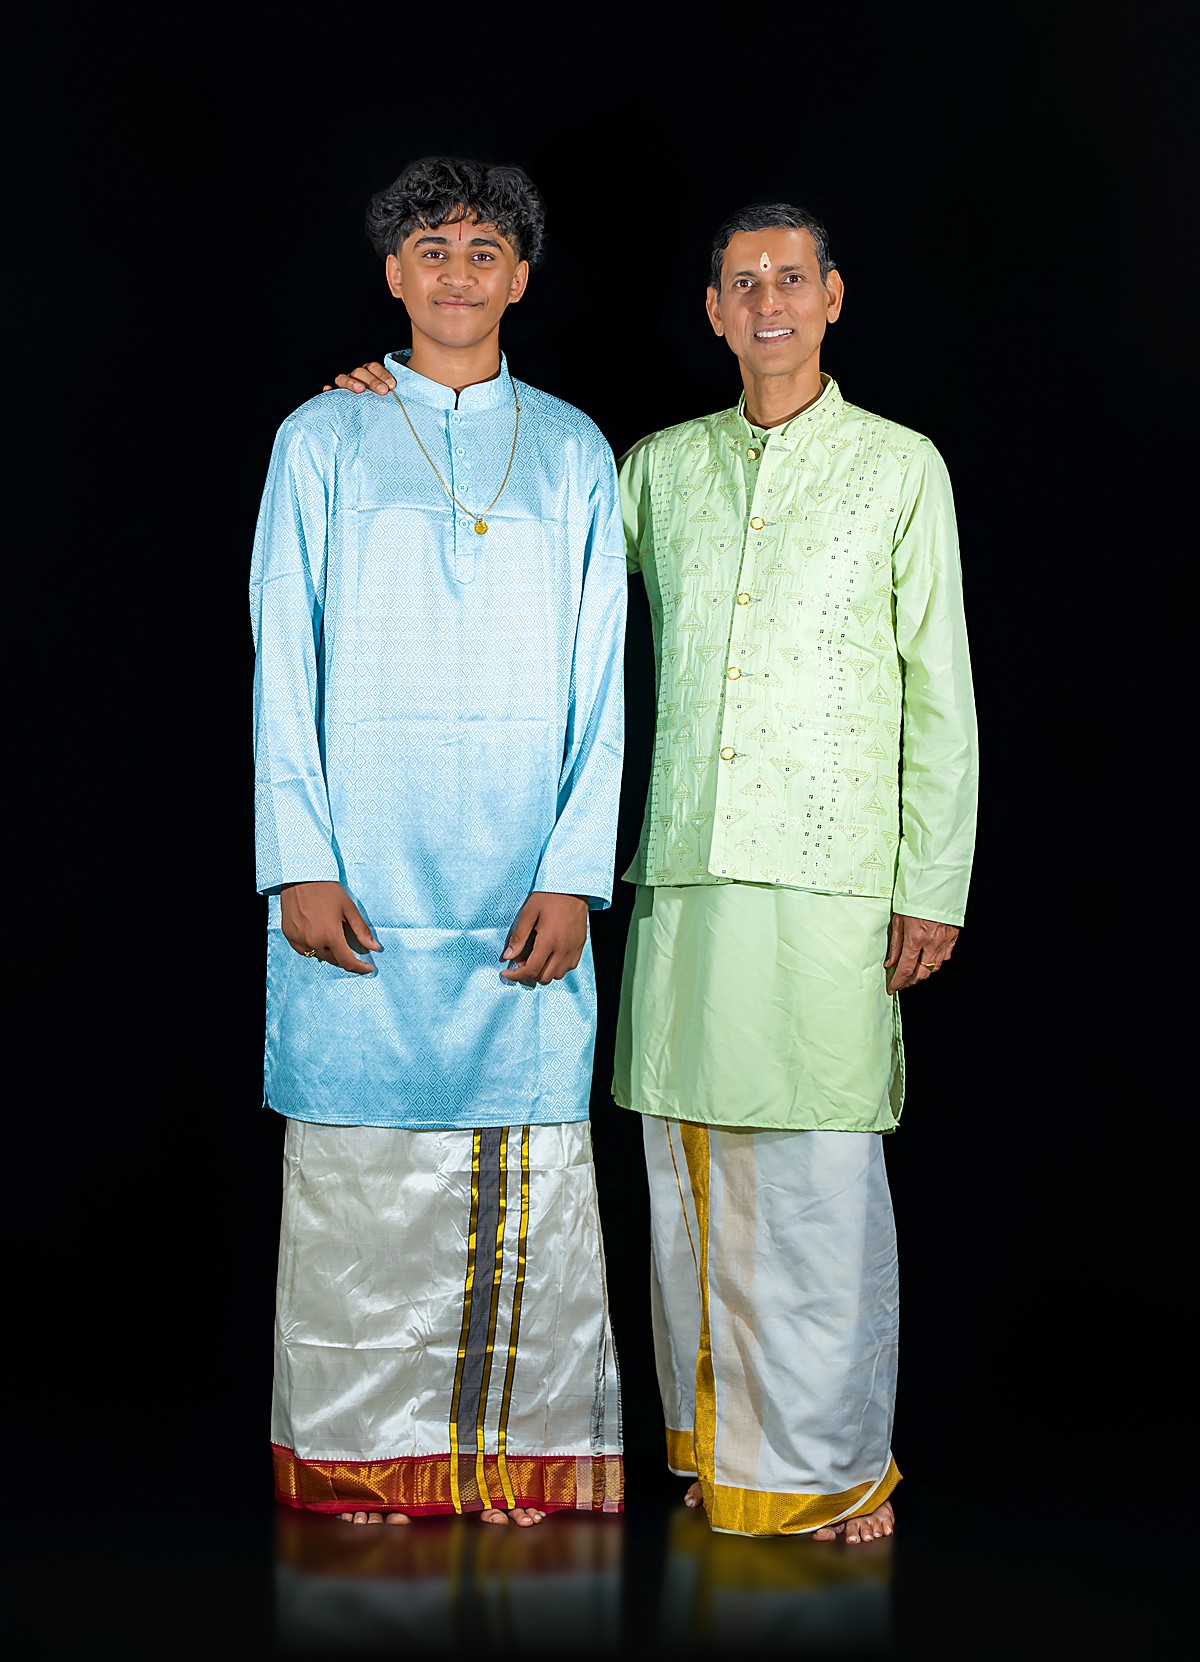
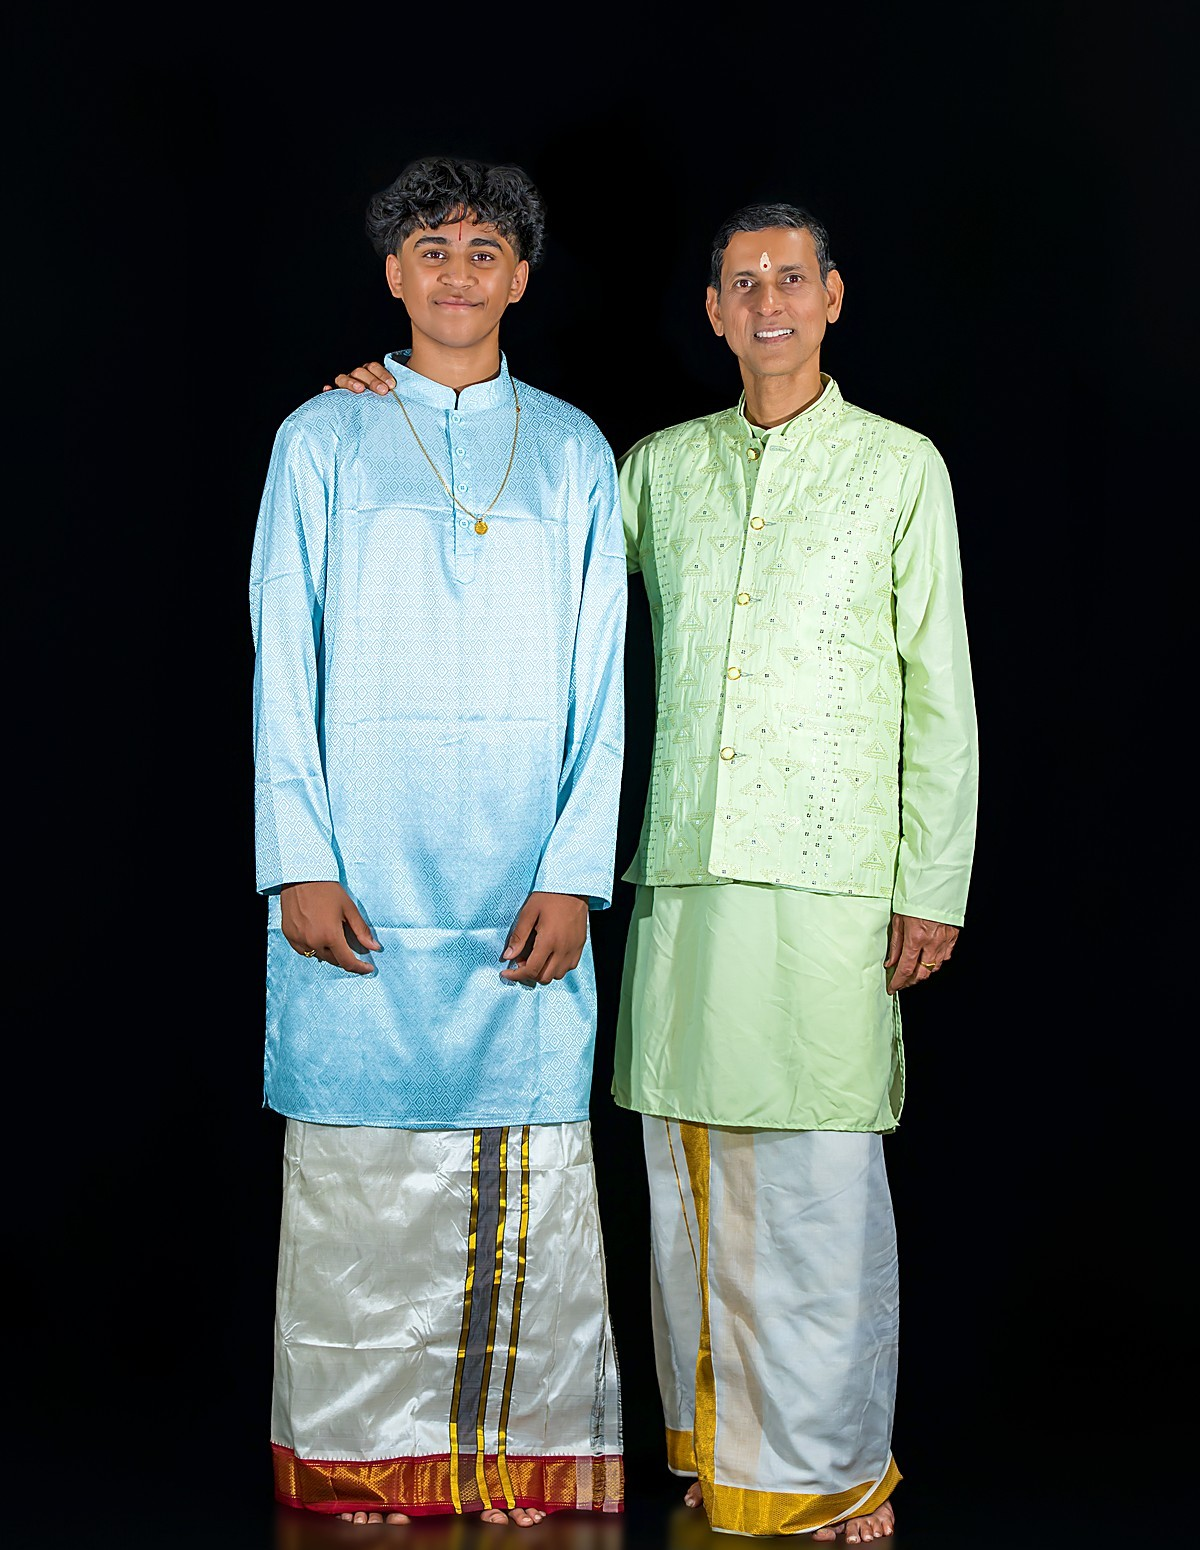
Add Ajay Gopi to Guru page and enlarge hero slide 2 image
- Add Ajay Gopi as Ani's second guru with photo and two-paragraph bio
- Update main guru's name to full honorific, add his stage photo below the existing portrait (cropped bottom)
- Move guru quote block below both guru sections
- Increase hero carousel slide 2 image size on desktop

Changed region(s): [[0.185, 0.0929, 0.8325, 1.0]]

diff --git a/js/content.js b/js/content.js
@@ -180,14 +180,29 @@ const CONTENT = {
   // card. Include the guru's own words about Ani if at all possible.
   // ---------------------------------------------------------------------
   guru: {
-    name: "Gopi Lakshminarayanan",
+    name: "Vidwan Sri Gopi Lakshminarayanan",
     photo: "images/guru-ani-portrait.jpg",
     photoAlt: "Guru Gopi Lakshminarayanan with Ani and a fellow student",
+    photo2: "images/guru.jpg",
+    photo2Alt: "Guru Gopi Lakshminarayanan on stage",
     lineageParagraph: "Sri Gopi Lakshminarayanan is a disciple of the late Sri Kumbakonam Narayanaswamy Iyer and continues his advanced learning with Sri Thanjavur Ramdoss, a disciple of Sri Palghat Mani Iyer. Through this lineage, the guru–shishya tradition carries Carnatic rhythm from one generation to the next through close listening, demonstration, correction, and trust.",
     teachingParagraph: "Gopi leads the Sharadha School of Thala Vadhya in Fremont and has taught young percussionists in the Bay Area for more than a decade. From Ani's earliest playful lessons to his work accompanying singers on stage, he has helped Ani develop discipline, adaptability, and a strong sense of kala pramanam — the steady command of tempo that anchors an ensemble.",
     wordsAboutStudentHeading: "A journey shaped by guidance",
     wordsAboutStudent: "Tonight celebrates not only a performance, but years of patient learning between guru and student. Every phrase Ani plays carries that shared work forward.",
   },
+
+  // Ani's other guru, shown beneath his primary guru on the Guru page.
+  secondaryGurus: [
+    {
+      name: "Ajay Gopi",
+      photo: "images/Ajay.jpg",
+      photoAlt: "Portrait of Ajay Gopi",
+      bioParagraphs: [
+        "Ajay is a disciple of his father, Sri Gopi Lakshminarayanan, and Sri Kallidaikurichi Sivakumar. He frequently accompanies established musicians on the mridangam at renowned venues across the USA and India, and also received foundational training in the kanjira from Sri Papanasam Sethuraman. In addition to his work as an accompanist, Ajay is a passionate Carnatic vocalist and currently trains under the guidance of Sri Kolkata Vijayaraghavan.",
+        "A graduate of UC Berkeley, Ajay is also the founder of Laya of Berkeley and RagaN, organizations dedicated to fostering a deeper appreciation of Carnatic music among diverse audiences. He has been training Aniruth for his mridangam arangetram and is a great pillar of support for him.",
+      ],
+    },
+  ],
 
   // ---------------------------------------------------------------------
   // CHIEF GUEST / GUEST OF HONOR PAGE

diff --git a/css/style.css b/css/style.css
@@ -486,7 +486,7 @@ a:hover { color: var(--kumkum); }
   position: relative;
   display: flex;
   justify-content: center;
-  height: clamp(36rem, 92vw, 44rem);
+  height: clamp(40rem, 92vw, 44rem);
 }
 .hero__slides {
   position: relative;
@@ -539,10 +539,16 @@ a:hover { color: var(--kumkum); }
   aspect-ratio: 1630 / 965;
   margin-top: -1.5rem;
 }
-@media (max-width: 59.99rem) {
-  .hero__slide[data-slide-index="1"] .hero__text-col {
-    margin-bottom: 0.75rem;
-  }
+.hero__slide[data-slide-index="0"] .hero__text-col {
+  margin-bottom: 0.25rem;
+}
+.hero__slide[data-slide-index="1"] .hero__text-col {
+  margin-bottom: 1.25rem;
+}
+.hero__slide[data-slide-index="1"] .hero__portrait {
+  margin-inline: -1.25rem;
+  width: calc(100% + 2.5rem);
+  max-width: calc(100% + 2.5rem);
 }
 .hero__slide[data-slide-index="2"] .hero__portrait {
   aspect-ratio: 1672 / 941;
@@ -630,7 +636,17 @@ a:hover { color: var(--kumkum); }
   .hero__stage { height: 50rem; }
   .hero__portrait { width: min(30vw, 320px); }
   .hero__text-col { max-width: 34rem; margin-bottom: -2.5rem; }
-  .hero__slide[data-slide-index="1"] .hero__portrait { margin-top: -4.5rem; }
+  .hero__slide[data-slide-index="0"] .hero__text-col {
+    margin-bottom: 1rem;
+  }
+  .hero__slide[data-slide-index="1"] .hero__text-col {
+    margin-bottom: 0.5rem;
+  }
+  .hero__slide[data-slide-index="1"] .hero__portrait {
+    margin-inline: 0;
+    margin-top: 0;
+    width: min(44vw, 720px);
+  }
   .event-strip .container { grid-template-columns: repeat(3, 1fr) auto; align-items: center; }
 }
 
@@ -868,6 +884,11 @@ a:hover { color: var(--kumkum); }
   display: grid;
   gap: 2rem;
 }
+.guru-hero__photo-stack {
+  display: grid;
+  gap: 1rem;
+  max-width: 26rem;
+}
 .guru-hero__photo {
   width: 100%;
   height: auto;
@@ -876,6 +897,11 @@ a:hover { color: var(--kumkum); }
   border: 1px solid var(--chalk-dim);
 }
 @media (min-width: 55rem) { .guru-hero { grid-template-columns: 0.8fr 1.2fr; align-items: start; } }
+.guru-hero--secondary {
+  margin-top: 2rem;
+  padding-top: 2rem;
+  border-top: 1px solid var(--chalk-dim);
+}
 .guru-quote {
   background: var(--syahi);
   color: var(--chalk);

diff --git a/js/render.js b/js/render.js
@@ -305,7 +305,10 @@ function renderGuru() {
   const g = CONTENT.guru;
   mount.innerHTML = `
     <div class="guru-hero">
-      <img class="guru-hero__photo" src="${g.photo}" alt="${g.photoAlt}" width="1200" height="1662" loading="lazy">
+      <div class="guru-hero__photo-stack">
+        <img class="guru-hero__photo" src="${g.photo}" alt="${g.photoAlt}" width="1200" height="1550" loading="lazy">
+        ${g.photo2 ? `<img class="guru-hero__photo" src="${g.photo2}" alt="${g.photo2Alt}" width="1600" height="1067" loading="lazy">` : ""}
+      </div>
       <div>
         <h2>${g.name}</h2>
         <h3>Lineage</h3>
@@ -314,6 +317,18 @@ function renderGuru() {
         <p>${g.teachingParagraph}</p>
       </div>
     </div>
+    ${(CONTENT.secondaryGurus || [])
+      .map(
+        (sg) => `
+    <div class="guru-hero guru-hero--secondary">
+      <img class="guru-hero__photo" src="${sg.photo}" alt="${sg.photoAlt}" width="1200" height="1662" loading="lazy">
+      <div>
+        <h2>${sg.name}</h2>
+        ${sg.bioParagraphs.map((para) => `<p>${para}</p>`).join("")}
+      </div>
+    </div>`
+      )
+      .join("")}
     <div class="guru-quote">
       <h3>${g.wordsAboutStudentHeading}</h3>
       <p>${g.wordsAboutStudent}</p>
